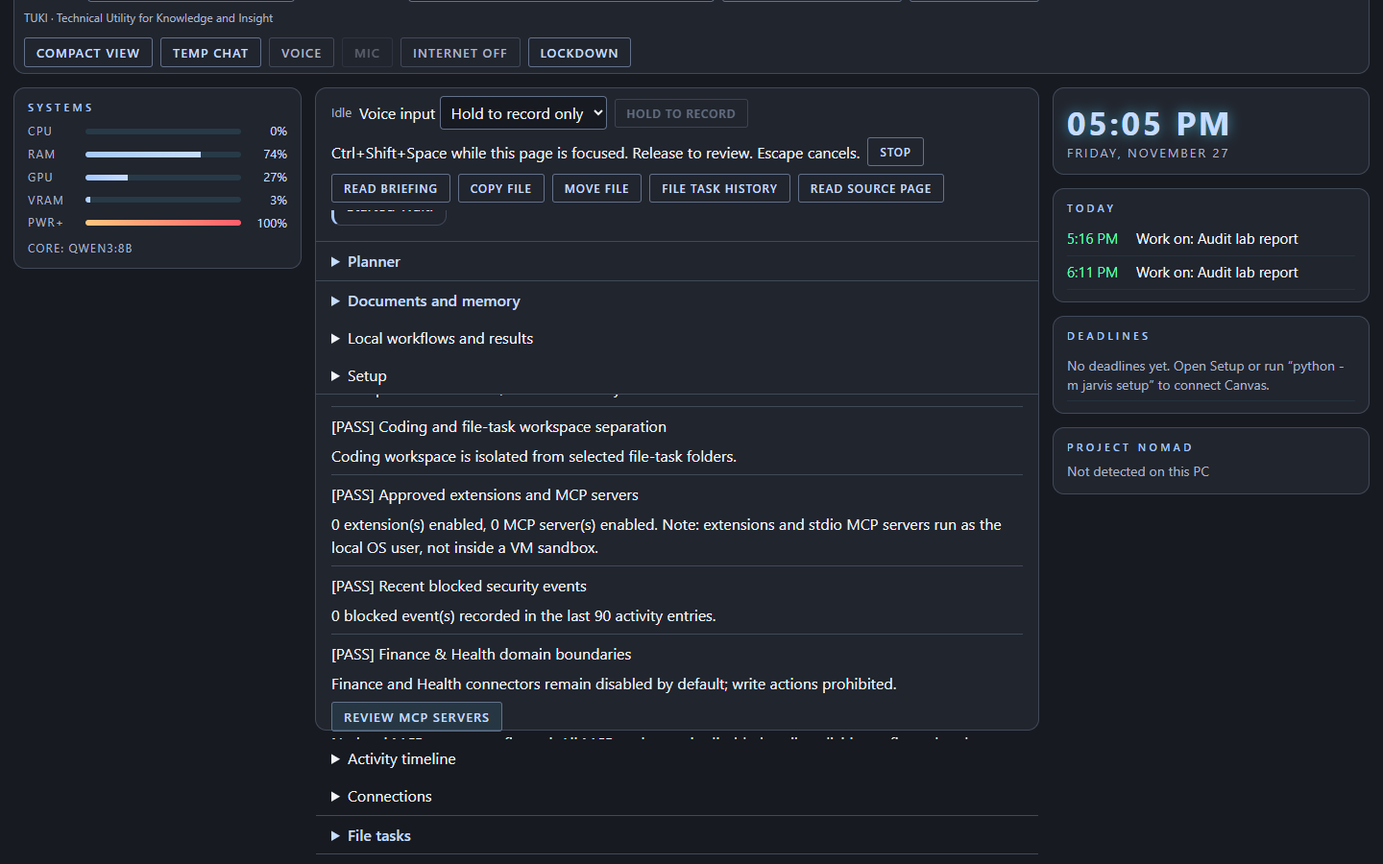
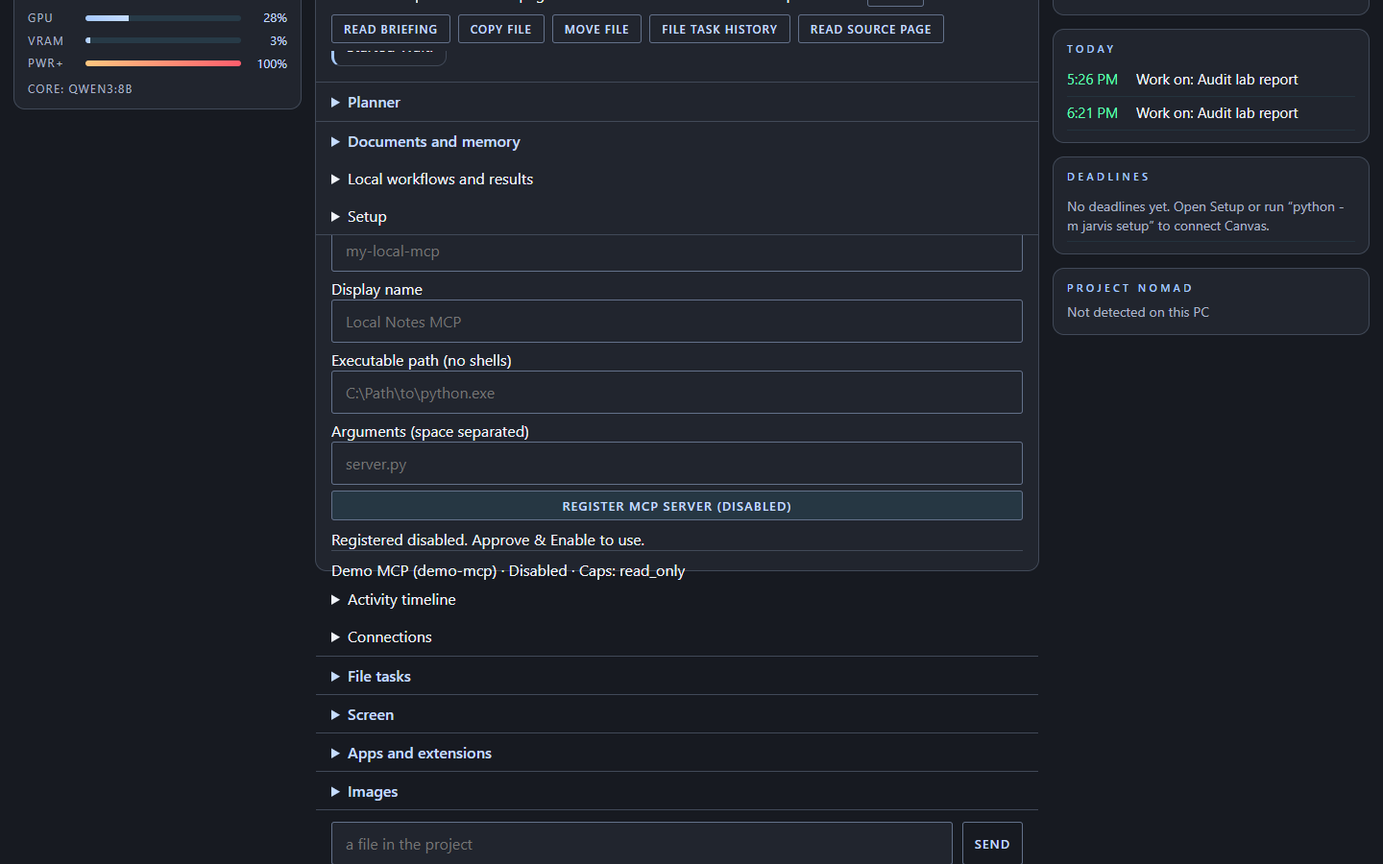
Prepare Jarvis 1.4.0 release metadata, 67-check browser report, and final engineering handoff

Changed region(s): [[0.0, 0.0, 0.75, 0.9956], [0.75, 0.0311, 0.9688, 0.4667], [0.7812, 0.4978, 0.875, 0.56]]

diff --git a/jarvis/__init__.py b/jarvis/__init__.py
@@ -1,2 +1,2 @@
 """Jarvis: an offline personal assistant."""
-__version__ = "1.3.0"
+__version__ = "1.4.0"

diff --git a/docs/Engineering Handoff.md b/docs/Engineering Handoff.md
@@ -9,11 +9,10 @@ Branch: `feature/jarvis-full-integration`
 
 ## 2. Ending Git Commit
 - Branch: `feature/jarvis-full-integration`
-- Feature & Rust commits:
-  - `c3d030f` — Add hardware advisor, multi-agent review, MCP client, connectors, worktrees, and Sentinel audit
-  - `ea6609a` — Upgrade HUD controls, fix Windows PowerShell 5.1 installer and 390px layout, expand Chrome audit
-  - `0d94867` — Add zero-dependency Rust jarvis-core policy and audit verifier crate
-  - `fadd14d` — Update roadmap audit, tracker, architecture, security docs, Phase 2 captures, and handoff (followed by final commit recording SHAs)
+- Version: `1.4.0` (bumped from `1.3.0` so `Jarvis1.4.0.zip` never overwrites the published `v1.3.0` archive)
+- Reconciled PRs: #22 (`3c41158`), #36 (`d15728d`), #37 (`63bf650`), #38 (`8b5847f`), #39 (`fe60a5c`), #40 (`0d5d8fd`), #41 (`655d115`) — zero contributions lost.
+- Previous milestone commit verified on GitHub: `8140460d50f6f27ed7666da44ef34ac11bd4bf01`
+- Follow-up pre-merge polish commits on `feature/jarvis-full-integration` complete all remaining local UI controls (Projects, Feed subscriptions, MCP registration/discovery, Memory JSON import, Conversation history search, Microphone device selector, Local SSE streaming toggle, Workflow run filter, Confirmed `/worktree`), harden NOMAD XML parsing and Windows HTTP 4xx socket delivery, bump version to `1.4.0`, and expand live Chrome browser verification to 67/67 checks.
 
 ## 3. Branches and Pull Requests Reviewed
 - `main` (`2bbc584`)
@@ -45,17 +44,20 @@ Branch: `feature/jarvis-full-integration`
 ## 6. Bugs Discovered and Fixed
 1. **Windows `install.ps1` failure under Windows PowerShell 5.1 when Python 3.12 is absent**: `& py -3.12` raised a terminating `NativeCommandError` under `$ErrorActionPreference = "Stop"`. Fixed by temporarily relaxing preference around the probe so `install.ps1` falls back cleanly to `python -m venv .venv`.
 2. **Windows `setupwizard.py` & `config.py` atomic file replacement `WinError 5` race**: Concurrent HUD polling (`load_state()`) vs download progress (`save_state()`) caused `PermissionError` on Windows `os.replace()`. Fixed with `_LOCK` synchronization and bounded `PermissionError` retry loops.
-3. **Windows `webui.py` HTTP 403 `WinError 10053` TCP RST**: Returning 403 on `do_POST` without draining small unauthenticated bodies caused TCP resets on Windows loopback sockets. Fixed by safely draining up to 4 KiB before sending 403.
-4. **Windows installer/updater test runner incompatibility**: `tests/test_release.py` and `tests/test_upgrade_paths.py` hardcoded `pwsh` (PowerShell 7), failing on standard Windows 10/11 machines with Windows PowerShell 5.1. Fixed with `pwsh` -> `powershell` fallback.
-5. **Phone-width layout overflow (7 px)**: Fixed input/select sizing and button wrapping in `jarvis/ui.html`.
-6. **Voice event payload shape**: Changed `mic_level` SSE event to emit a dict (`{"level": ...}`) matching existing listener event consumers.
+3. **Windows `webui.py` HTTP 4xx `WinError 10053` TCP RST & disconnect tracebacks**: Returning 400/403 on `POST` while unread request bytes remained in the receive buffer caused intermittent TCP resets on Windows loopback sockets. Fixed with `Connection: close`, flush + `socket.SHUT_WR` half-close on `>= 400` responses, bounded small-body drain on unauthenticated `POST`, and catching normal client disconnect errors in `_send()`.
+4. **NOMAD Kiwix XML parsing hardening**: Added NUL-byte and `<!DOCTYPE` / `<!ENTITY` rejection before `ET.fromstring()` in `jarvis/nomad.py` matching the feed-parser hardening from PR #40/#41.
+5. **Windows installer/updater test runner incompatibility**: `tests/test_release.py` and `tests/test_upgrade_paths.py` hardcoded `pwsh` (PowerShell 7), failing on standard Windows 10/11 machines with Windows PowerShell 5.1. Fixed with `pwsh` -> `powershell` fallback.
+6. **Phone-width layout overflow (7 px)**: Fixed input/select sizing, file-input bounds, and button wrapping in `jarvis/ui.html` across all panels.
+7. **Voice event payload shape**: Changed `mic_level` SSE event to emit a dict (`{"level": ...}`) matching existing listener event consumers.
 
 ## 7. Security Findings and Fixes
 - Verified all new `/api/*` endpoints enforce `Host`, `Origin`, and `X-Jarvis-Key` checks via automated 403 tests.
 - Verified cloud providers are excluded from `net.py` allowlist unless explicitly enabled and configured, and never exposed as automatic model tools.
 - Verified MCP client rejects shell/script hosts (`cmd.exe`, `powershell.exe`, `bash`, `sh`), requires exact capability approval, enforces timeouts/output bounds, and fences returned text against prompt injection.
+- Hardened `jarvis/nomad.py` Kiwix XML parsing to refuse NUL bytes, DTDs, and XML entities.
 - Verified Finance & Health domain guards fail closed and prohibit writes.
 - Verified `python -m jarvis security-audit` passes all 9 local defensive checks on Windows 10.
+- Repo-wide scan across all 149+ tracked files confirmed zero exposed credentials, API keys, private keys, personal emails, or machine-specific user paths.
 
 ## 8. Files Added or Modified
 - Added: `jarvis/hardware.py`, `jarvis/cloudprovider.py`, `jarvis/agents.py`, `jarvis/mcp_client.py`, `jarvis/connectors.py`, `jarvis/sentinel.py`, `jarvis/domains.py`, `rust/jarvis-core/Cargo.toml`, `rust/jarvis-core/src/lib.rs`, `rust/jarvis-core/src/main.rs`, `tests/test_full_integration.py`, `docs/Development Tracker.md`, `docs/Architecture.md`, `docs/Security Model.md`, `docs/Third Party Attribution.md`, `docs/Engineering Handoff.md`
@@ -63,13 +65,13 @@ Branch: `feature/jarvis-full-integration`
 
 ## 9. Test Commands and Actual Results
 (Verified on Windows 10 Home 10.0.19045, Python 3.15.2, Rust 1.100.0-x86_64-pc-windows-msvc, Google Chrome)
-- `.\.venv\Scripts\python.exe -m pytest -q`: **340 passed, 0 failed, 7 platform-specific skipped** (3 Windows symlink privilege skips, 1 Tesseract-not-installed skip, 3 POSIX `sleep` skips). Includes all Windows `install.ps1`, `upgrade.ps1`, v1.1.1/v1.2.1 upgrade/rollback, and native DPAPI tests.
-- `$env:JARVIS_CHROME="C:\Program Files\Google\Chrome\Application\chrome.exe"; .\.venv\Scripts\python.exe -m scripts.hud_control_audit`: **65 of 65 checks passed** (including 390 px phone layout with 0 px overflow, Command Center, Ambient, Sentinel/MCP, Hardware, Temp chat, Windows App actions, Extensions, Setup Wizard, and Restart persistence).
+- `.\.venv\Scripts\python.exe -m pytest -q`: **342 passed, 0 failed, 7 platform-specific skipped** (3 Windows symlink privilege skips, 1 Tesseract-not-installed skip, 3 POSIX `sleep` skips). Includes all Windows `install.ps1`, `upgrade.ps1`, v1.1.1/v1.2.1 upgrade-to-1.4.0 & rollback, native DPAPI, NOMAD XML hardening, project-scoped recall, and confirmed `/worktree` tests.
+- `$env:JARVIS_CHROME="C:\Program Files\Google\Chrome\Application\chrome.exe"; .\.venv\Scripts\python.exe -m scripts.hud_control_audit`: **67 of 67 checks passed** (including 390 px phone layout with 0 px overflow, Command Center, Ambient, Sentinel/MCP registration & shell rejection, Projects & history search, Saved RSS feeds, Hardware/Audio devices, Research/Cybersecurity/Both modes, Temp chat, Windows App actions, Extensions, Setup Wizard, and Restart persistence).
 - `cargo +1.100.0-x86_64-pc-windows-msvc test --manifest-path rust/jarvis-core/Cargo.toml`: **4 passed, 0 failed**.
 - `.\.venv\Scripts\python.exe -m compileall -q jarvis scripts tests`: exit 0.
 - `node --check` on extracted `jarvis/ui.html` JavaScript: exit 0.
 - PowerShell AST syntax checks (`install.ps1`, `upgrade.ps1`, `scripts/check_defender.ps1`): all OK.
-- `.\.venv\Scripts\python.exe -m scripts.package_release`: reproducible `dist/Jarvis1.3.0.zip` + `SHA256SUMS.txt` built and verified (all packaged documentation links resolve inside the ZIP).
+- `.\.venv\Scripts\python.exe -m scripts.package_release`: reproducible `dist/Jarvis1.4.0.zip` + `SHA256SUMS.txt` built and verified (all packaged documentation links resolve inside the ZIP; does not overwrite `v1.3.0`).
 
 ## 10. Hardware Verification Results
 - **Host**: Windows 10 Home (10.0.19045), Intel Core i7-10875H (8C/16T), 31.86 GB RAM, NVIDIA Quadro RTX 5000 Max-Q (16.0 GB VRAM, Driver 621.24).

diff --git a/CHANGELOG.md b/CHANGELOG.md
@@ -1,17 +1,17 @@
 # Changelog
 
-## Unreleased
+## 1.4.0
 
 - **Hardware detection & recommendations (`M01`)**: Inspect real CPU, RAM, disk, and NVIDIA GPU/VRAM (`jarvis/hardware.py`, `/api/hardware`, `python -m jarvis doctor`, and HUD Setup panel) with honest profile recommendations.
-- **Local provider SSE streaming & Bearer auth (`M02`)**: Optional loopback SSE text streaming and DPAPI-stored Bearer token support in `jarvis/localprovider.py`.
+- **Local provider SSE streaming & Bearer auth (`M02`)**: Optional loopback SSE text streaming and DPAPI-stored Bearer token support in `jarvis/localprovider.py` and the HUD provider form.
 - **Optional per-request cloud AI provider (`M03`)**: Opt-in single-prompt cloud adapter (`jarvis/cloudprovider.py` for OpenAI, Anthropic, Gemini) with DPAPI API keys, fail-closed allowlist, zero silent fallback, and mandatory `confirm cloud` approval.
 - **TUKI & Multi-Agent collaboration (`A03`, `A05`)**: Specialist profiles (`jarvis/agents.py`), Jarvis + TUKI cooperative independent review (`assistant="both"` and `/review`), recursion depth guard (`MAX_DELEGATION_DEPTH = 2`), and dedicated Research and Cybersecurity workspace modes.
-- **Voice assistant enhancements (`V04`, `V06`, `V08`)**: Audio input/output device inventory (`/api/audio-devices`), British voice detection, Jarvis/TUKI WPM speech speed controls, and real-time `mic_level` activity meter.
-- **Persistent memory & project knowledge spaces (`R03`, `R04`)**: Named conversations (`/api/conversations`), temporary/ephemeral chat toggle (`Temp chat`), project knowledge spaces (`/api/projects`), duplicate fact detection/deduplication, and redacted JSON fact import.
-- **Connectors, GitHub PRs, RSS subscriptions & MCP (`C01`-`C05`, `C07`)**: Approved GitHub pull request reads (`/prs`), saved HTTPS RSS/Atom subscriptions (`/api/feeds`), PKCE OAuth 2.0 scaffolding with read-only vs write scope separation for Google Workspace and Microsoft 365 (`jarvis/connectors.py`), and a pure-stdlib local stdio JSON-RPC 2.0 MCP client with per-server capability approval and injection fencing (`jarvis/mcp_client.py`).
-- **Coding Git status, isolated worktrees & local document preview (`D01`, `D02`, `R05`)**: Read-only `/git-status`, isolated sibling Git worktree create/remove (`coder.py`), and bounded in-memory local document/PDF preview (`/api/documents/preview`).
-- **Sentinel security audit, Finance/Health boundaries & Rust foundation (`S02`, `S04`, `S05`)**: Defensive local Sentinel posture audit (`jarvis/sentinel.py`, `python -m jarvis security-audit`, HUD Sentinel panel), fail-closed Finance/Health domain guards (`jarvis/domains.py`), and zero-dependency native Rust policy/audit crate (`rust/jarvis-core`).
-- **Windows 10/11 compatibility fixes**: Fixed `install.ps1` Python 3.12 probe under Windows PowerShell 5.1 `$ErrorActionPreference = "Stop"`, and updated Windows installer/updater tests to fall back from `pwsh` to `powershell.exe`.
+- **Voice assistant enhancements (`V04`, `V06`, `V08`)**: Audio input/output device inventory (`/api/audio-devices`) and microphone selector, British voice detection, Jarvis/TUKI WPM speech speed controls, and real-time `mic_level` activity meter.
+- **Persistent memory & project knowledge spaces (`R03`, `R04`)**: Named conversations (`/api/conversations`) with history search, temporary/ephemeral chat toggle (`Temp chat`), project knowledge spaces (`/api/projects`) with active-project recall scoping, duplicate fact detection/deduplication, and redacted JSON fact import.
+- **Connectors, GitHub PRs, RSS subscriptions & MCP (`C01`-`C05`, `C07`)**: Approved GitHub pull request reads (`/prs`), saved HTTPS RSS/Atom subscriptions (`/api/feeds` + HUD management), PKCE OAuth 2.0 scaffolding with read-only vs write scope separation for Google Workspace and Microsoft 365 (`jarvis/connectors.py`), and a pure-stdlib local stdio JSON-RPC 2.0 MCP client with per-server capability approval, HUD registration/discovery, and injection fencing (`jarvis/mcp_client.py`).
+- **Coding Git status, isolated worktrees & local document preview (`D01`, `D02`, `R05`)**: Read-only `/git-status`, confirmed isolated sibling Git worktree create/remove (`/worktree`, `/worktree-remove`, `coder.py`), workflow run search filter, and bounded in-memory local document/PDF preview (`/api/documents/preview`).
+- **Sentinel security audit, XML hardening, Finance/Health boundaries & Rust foundation (`S02`, `S04`, `S05`)**: Defensive local Sentinel posture audit (`jarvis/sentinel.py`, `python -m jarvis security-audit`, HUD Sentinel panel), NUL/DTD/ENTITY XML hardening in `jarvis/nomad.py`, fail-closed Finance/Health domain guards (`jarvis/domains.py`), and zero-dependency native Rust policy/audit crate (`rust/jarvis-core`).
+- **Windows 10/11 compatibility fixes**: Fixed `install.ps1` Python 3.12 probe under Windows PowerShell 5.1 `$ErrorActionPreference = "Stop"`, atomic file-replace concurrency retries in `setupwizard.py` and `config.py`, HTTP 403 socket drain in `webui.py`, and `pwsh` -> `powershell.exe` test fallback.
 
 - Reject NUL-containing misdecoded XML before feed parsing so alternate byte encodings cannot bypass the DTD/entity scan.
 

diff --git a/docs/Development Tracker.md b/docs/Development Tracker.md
@@ -14,7 +14,7 @@ This tracker consolidates all 16 development phases and the 44-item master devel
 | Voice Assistant: TTS, British Voices, Speed & Devices (V01, V06) | Implemented; requires real microphone/speaker test | `jarvis/voice.py`, `jarvis/__main__.py`, `jarvis/ui.html` | `tests/test_voice_inventory.py`, `tests/test_voice_check.py`, `tests/test_tuki_voice_routing.py`, `tests/test_full_integration.py` | Spoken echo-cancelled barge-in (V03) | Real Windows microphone/speaker audio verification; install UK voice pack or Piper | Windows SAPI voice inventory verified live (`David`, `Zira`); unit/HUD tests pass | User microphone/speaker confirmation + optional UK SAPI/Piper install |
 | Voice Input: Wake Word, Push-to-Talk, Live Mic Meter (V02, V04, V08) | Implemented; requires real microphone test | `jarvis/voice.py`, `jarvis/ui.html`, `jarvis/webui.py` | `tests/test_manual_voice.py`, `tests/test_phase3.py`, `tests/test_voice_interrupt.py` | System-wide OS global hotkey & tray icon | Verify real room conversation and acoustic echo behavior | Sample-buffer, cancellation, pause-clear, and mic-level event tests pass | Physical microphone + faster-whisper verification |
 | TUKI & Multi-Agent Collaboration (A03, A05) | Implemented; requires live model verification | `jarvis/assistants.py`, `jarvis/agents.py`, `jarvis/brain.py`, `jarvis/ui.html` | `tests/test_assistants.py`, `tests/test_tuki_voice_routing.py`, `tests/test_full_integration.py` | Parallel multi-agent coding panes (D04) | Real model quality assessment for Jarvis+TUKI review | Routing, confidence labels, cooperative review, and recursion depth limit tested | Live Ollama models for quality verification |
-| Persistent Memory, Conversations, Projects & Dedup (R03, R04) | Implemented and verified | `jarvis/memory.py`, `jarvis/recovery.py`, `jarvis/__main__.py`, `jarvis/ui.html` | `tests/test_documents_and_memory.py`, `tests/test_memory_expiry.py`, `tests/test_finish_upgrades.py`, `tests/test_full_integration.py` | Automatic semantic clustering without Ollama embeddings | Add UI project switcher shortcut | SQLite migration, expiry, temporary chat, named conversations, projects, dedup & redacted import pass | None |
+| Persistent Memory, Conversations, Projects & Dedup (R03, R04) | Implemented and verified | `jarvis/memory.py`, `jarvis/recovery.py`, `jarvis/__main__.py`, `jarvis/ui.html` | `tests/test_documents_and_memory.py`, `tests/test_memory_expiry.py`, `tests/test_finish_upgrades.py`, `tests/test_full_integration.py`, `scripts/hud_control_audit.py` | Automatic semantic clustering without Ollama embeddings | Add optional summary generator button per conversation | SQLite migration, expiry, temporary chat, named conversations, history search, project switcher & scoped recall, dedup & redacted JSON import pass in pytest & Chrome | None |
 | Document Search, FTS5 Index, Research & Local Preview (R01, R02, R05) | Implemented; OCR/model quality require live verification | `jarvis/documents.py`, `jarvis/docindex.py`, `jarvis/brain.py`, `jarvis/__main__.py` | `tests/test_document_index.py`, `tests/test_document_research.py`, `tests/test_full_integration.py` | Multi-region screen annotation | Real model citation quality review; Tesseract Windows check | FTS5 index lifecycle, `/research-docs`, `/research-all`, and bounded local preview + injection screen pass | Tesseract install & live Ollama model |
 | Connectors: GitHub, RSS/Atom, Weather, OAuth Scaffolding (C01-C05) | Partially implemented (OAuth live accounts need credentials) | `jarvis/connections.py`, `jarvis/connectors.py`, `jarvis/online.py`, `jarvis/planner.py` | `tests/test_connections_status.py`, `tests/test_github_context.py`, `tests/test_github_issues.py`, `tests/test_feeds.py`, `tests/test_weather.py`, `tests/test_full_integration.py` | Live Google/Microsoft API data fetchers after OAuth token exchange; Git push/PR creation | Add live OAuth callback receiver once user registers client IDs | GitHub repo/issues/PRs, RSS/Atom, NWS weather, PKCE OAuth URL generation & revocation pass with fixtures | User OAuth client IDs and authorized accounts |
 | Local Stdio MCP Client with Approval Screen (C07) | Implemented and verified (local stdio) | `jarvis/mcp_client.py`, `jarvis/__main__.py`, `jarvis/webui.py`, `jarvis/ui.html` | `tests/test_full_integration.py` | Remote SSE/HTTP MCP transport | Add per-tool confirmation UI for `write_or_effect` MCP servers | Real subprocess stdio JSON-RPC `initialize`, `tools/list`, `tools/call`, shell rejection & injection fencing pass | None for local stdio servers |

diff --git a/docs/ReleaseNotes.md b/docs/ReleaseNotes.md
@@ -1,5 +1,13 @@
-Jarvis 1.3.0 restores the "Are you sure?" prompts for deleting a remembered fact, restoring a backup, clearing history and downloading above the storage budget, which since 1.1 had gone ahead without asking. Every HUD control is now exercised by an automated audit that checks its real result. Coding adds related files as read-only context, sizes requests to the performance profile (the 8 GB profile no longer overflows its model context), adds approved builds, feeds failure output back, and keeps undo across restarts. New: a Screen panel that captures one window you choose and sends it to the local vision model only when you ask; approved app actions with Stop; optional local OCR with Tesseract; and extensions that stay off until you approve the permissions they declare. "Jarvis, stop" cancels a reply that is still being prepared.
+Jarvis 1.4.0 consolidates the Phase 2 workspace and provider expansion (PRs #36-#41) with OpenJarvis-inspired local intelligence, security, and Windows reliability upgrades.
 
-The release is not code-signed. Verify the ZIP with SHA256SUMS.txt. Close Jarvis before running upgrade.ps1. The updater replaces shipped program files only and keeps your settings and data. Run install.ps1 afterwards to refresh packages.
+Highlights:
+- Three selectable workspace views (Classic Jarvis, Command Center, Ambient Intelligence) alongside all six legacy themes, plus dedicated Research and Cybersecurity modes and Jarvis + TUKI cooperative independent review (`/review`, `assistant="both"`).
+- Hardware-aware model recommendations (`jarvis/hardware.py`, `python -m jarvis doctor`, Setup panel), loopback OpenAI-compatible SSE streaming and optional DPAPI Bearer auth, and an opt-in per-request-consented cloud AI adapter (`jarvis/cloudprovider.py`, disabled by default, zero silent fallback).
+- Named conversations with history search, Temporary chat mode (`Temp chat`), project knowledge spaces (`R03`), duplicate fact cleanup, redacted JSON memory import, and in-memory bounded local document/PDF preview.
+- Approved RSS/Atom feed reads and saved subscriptions, NWS US coordinate weather forecasts, GitHub issues and open pull request reads (`/prs`), confirmed isolated Git coding worktrees (`/worktree`), PKCE OAuth 2.0 scaffolding for Google Workspace and Microsoft 365, and a pure-stdlib local stdio JSON-RPC 2.0 MCP client with explicit per-server capability approval and prompt-injection fencing.
+- Defensive local Sentinel security posture audit (`python -m jarvis security-audit`, HUD Sentinel panel), XML DTD/entity hardening for NOMAD Kiwix feeds, fail-closed Finance/Health domain boundaries, and a zero-dependency native Rust foundation crate (`rust/jarvis-core`).
+- Windows 10/11 fixes for `install.ps1` under Windows PowerShell 5.1, atomic file-replace concurrency retries, clean HTTP 403 socket draining, and 390 px mobile layout.
 
-Automated tests ran on Linux and in Windows CI with stubbed models. Real-model quality and speed on an 8 GB Windows PC, the microphone, screen capture of real windows, app actions on Windows and OCR on Windows still need testing on the target PC. Spoken interruption while Jarvis is speaking is not included. See CHANGELOG.md and docs/Capabilities.md.
+The release is not code-signed. Verify `Jarvis1.4.0.zip` with `SHA256SUMS.txt` (do not overwrite the published `v1.3.0` release archive). Close Jarvis before running `upgrade.ps1`. The updater replaces shipped program files only and preserves your settings, encrypted secrets, and local database. Run `install.ps1` afterwards to refresh packages.
+
+Verified on Windows 10 (Python 3.15.2, Rust 1.100.0, Google Chrome) with automated unit, integration, Windows installer/updater/rollback, Rust, and live browser HUD control audits. Live Ollama model inference, physical microphone/speaker audio, Tesseract OCR, and live external OAuth/cloud accounts still require user installation or credentials. See `CHANGELOG.md`, `docs/Capabilities.md`, `docs/Roadmap Status.md`, and `docs/Engineering Handoff.md`.

diff --git a/README.md b/README.md
@@ -2,7 +2,7 @@
 
 Jarvis is an offline-first AI assistant for Windows. It runs local Ollama models for everyday work and TUKI technical tasks, with voice controls, a weekly planner, document search, and a coding workspace with reviewable edits. Local tools work offline after setup. Web search and other online services require separate configuration.
 
-Download the Windows source ZIP and checksum from [Jarvis v1.3.0](https://github.com/test3457890/Jarvis/releases/tag/v1.3.0). See the [release notes](docs/ReleaseNotes.md) for what changed and the [capability matrix](docs/Capabilities.md) for requirements and testing status.
+Download the Windows source ZIP and checksum from [Releases](https://github.com/test3457890/Jarvis/releases) (current version: `1.4.0`; previous published release: [v1.3.0](https://github.com/test3457890/Jarvis/releases/tag/v1.3.0)). See the [release notes](docs/ReleaseNotes.md) for what changed and the [capability matrix](docs/Capabilities.md) for requirements and testing status.
 
 [Install Jarvis](#install-once) · [First launch](#first-launch-setup-wizard) · [File tasks](#file-tasks-in-selected-folders) · [Jarvis and TUKI](#jarvis-and-tuki) · [Project NOMAD](#project-nomad-integration) · [What is in this repository](#what-is-in-this-repository)
 
@@ -33,9 +33,9 @@ real Ollama, NOMAD, audio, image-generation or Windows hardware behavior.
 |---|---|---|
 | ![TUKI voice preview and a labelled answer](docs/screenshots/tuki-voice.png) | ![Three new themes](docs/screenshots/themes.png) | ![HUD at 390 px wide](docs/screenshots/mobile.png) |
 
-| Screen capture audit | App actions audit | Extension and OCR controls |
+| Screen capture audit | App actions audit | Extension, Sentinel, and HUD controls |
 |---|---|---|
-| ![Synthetic screen frame shown before a local vision question](docs/screenshots/audit-screen.png) | ![Approved app action controls in the HUD audit](docs/screenshots/audit-apps.png) | [See the 54-control report](docs/ControlReport.md) |
+| ![Synthetic screen frame shown before a local vision question](docs/screenshots/audit-screen.png) | ![Approved app action controls in the HUD audit](docs/screenshots/audit-apps.png) | [See the 67-control report](docs/ControlReport.md) |
 
 Screenshots use synthetic conversation, sample files and stubbed model replies, captured by
 `python -m scripts.capture_hud` and `python -m scripts.hud_control_audit`. The audit screen

diff --git a/docs/ControlReport.md b/docs/ControlReport.md
@@ -4,7 +4,7 @@ Generated by `python -m scripts.hud_control_audit` against a real Jarvis HUD ser
 Model, voice and image services are stubbed. These results check controls, API calls, files and saved
 settings, not model quality or Windows audio.
 
-**65 of 65 checks passed.**
+**67 of 67 checks passed.**
 
 | Control | Action | Expected result | Result | Observed |
 |---|---|---|---|---|
@@ -70,7 +70,9 @@ Stopped by the user. |
 | App actions: add, run, stop, remove | approve safe program, Confirm, Stop | program starts, then is closed | PASS | as expected |
 | Extensions: enable, run tests, disable | example word-count | skill registered, tests pass, removed | PASS | as expected |
 | Setup: OCR checkbox | turn on and save | ocr_enabled saved | PASS | as expected |
-| Sentinel security & MCP | run local security audit and inspect MCP | defensive checks reported, zero unapproved MCP servers | PASS | as expected |
-| Hardware & Temp chat | inspect hardware and toggle Temp chat | hardware summary shown and temporary chat toggles | PASS | as expected |
+| Sentinel security & MCP | run local security audit, reject shell MCP, register and remove valid MCP | defensive checks pass, shell rejected, disabled server added and removed | PASS | as expected |
+| Projects & conversation history search | save/activate/delete project and search history | project scope updates and history search returns matches | PASS | as expected |
+| Saved RSS feed subscriptions | add and remove HTTPS feed in Connections | feed persisted and cleanly removed | PASS | as expected |
+| Hardware, Modes & Temp chat | inspect hardware, test Research/Cybersecurity/Both, toggle Temp chat | hardware summary shown, new modes/assistant work, temporary chat toggles | PASS | as expected |
 | Phone layout | 390 px wide | no sideways scrolling | PASS | as expected |
 | Restart | new App on the same settings | theme, mode, assistant and profile kept | PASS | as expected |
